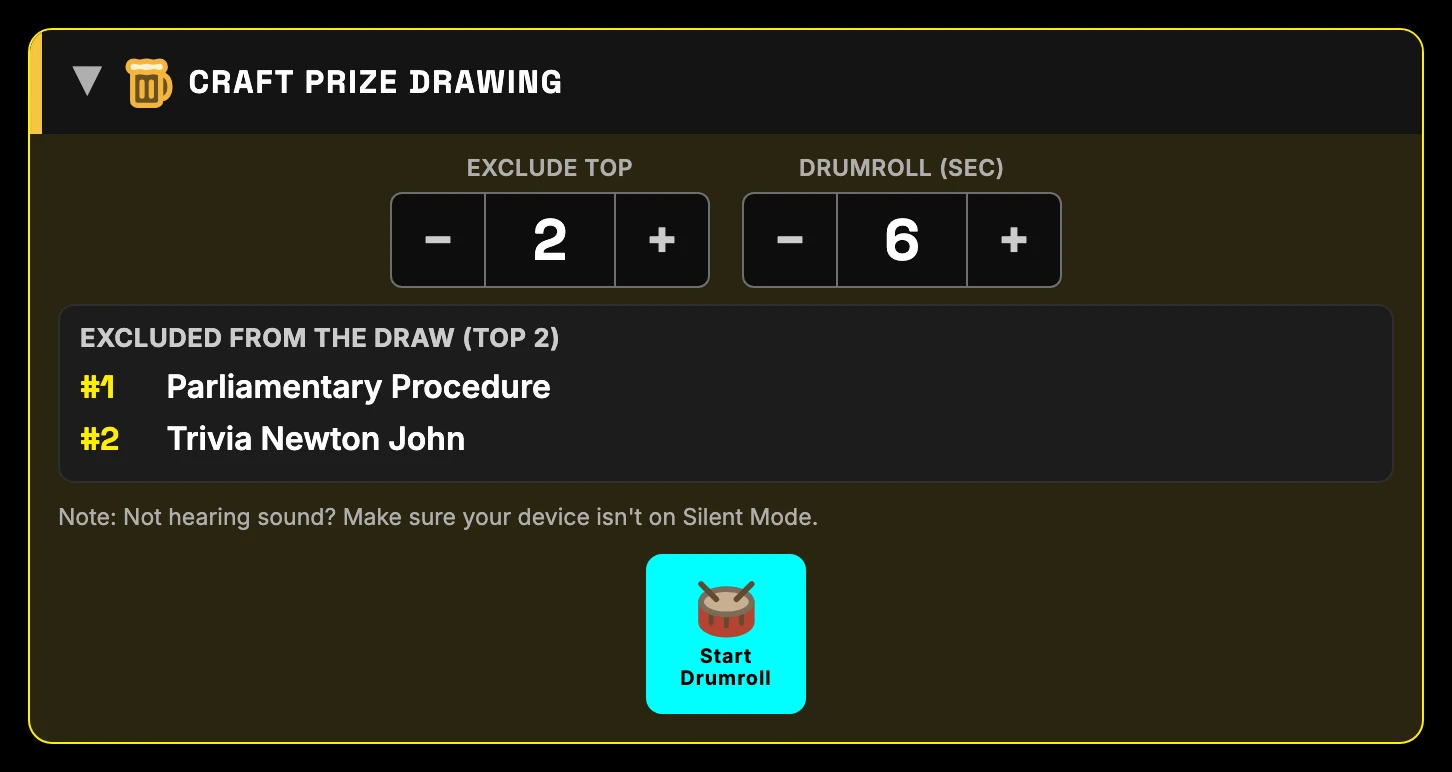
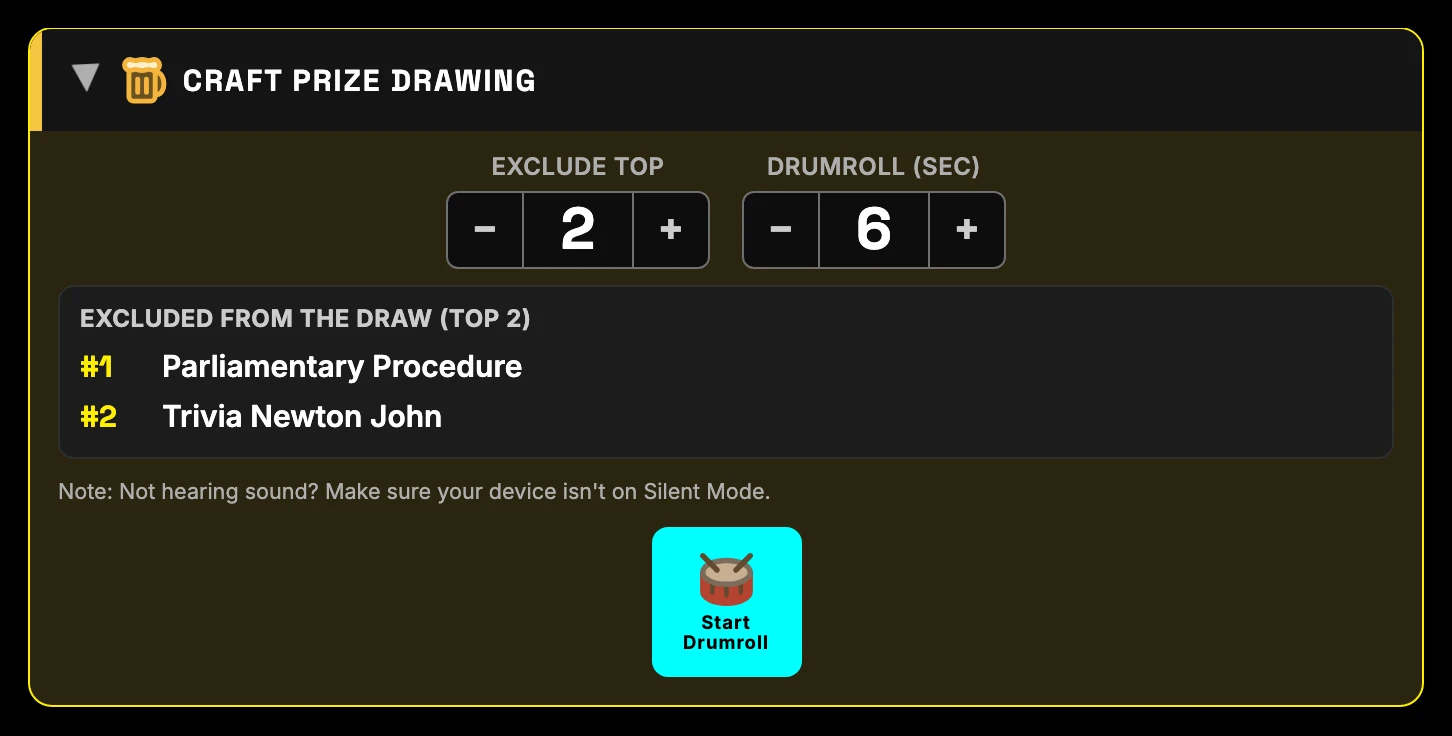
v22.28 Craft Prize steppers back to previous size with bigger digits, square phone export buttons, regenerated Export and Craft Prize FAQ screenshots

diff --git a/index.html b/index.html
@@ -103,7 +103,7 @@
     </div>
     </div>
     <div class="settings-panel-foot">
-    <div class="settings-meta"><span class="settings-version" id="versionLabel"></span><details class="settings-about"><summary>What's new</summary><div class="about-ver"><b>v22.27</b><ul><li>Export: on phones the four buttons sit in a 2x2 grid, XLSX and PDF on top, Photos and JD Form below.</li><li>Craft Prize: even bigger digits in the Exclude Top and Drumroll boxes.</li></ul></div><div class="about-ver"><b>v22.26</b><ul><li>Craft Prize: much bigger digits in the Exclude Top and Drumroll boxes.</li></ul></div><div class="about-ver"><b>v22.24</b><ul><li>PDF export: the craft prize winner is highlighted in gold and labelled in the Standings.</li><li>More space between the XLSX, PDF and JD Form buttons.</li></ul></div><div class="about-ver"><b>v22.23</b><ul><li>Craft Prize: bigger Exclude Top and Drumroll text, and excluded teams now listed with their rank.</li><li>Bigger, easier-to-tap Reload button in Settings.</li></ul></div><div class="about-ver"><b>v22.22</b><ul><li>Questions: on iPad landscape the sort and reset buttons are taller and easier to tap.</li></ul></div><div class="about-ver"><b>v22.21</b><ul><li>Behind the scenes: tidier tests and refreshed docs. No changes to the app itself.</li></ul></div><div class="about-ver"><b>v22.20</b><ul><li>Rivals: the selected place button now shows a checkmark badge for #1-#3 and an X badge for Other.</li></ul></div><div class="about-ver"><b>v22.19</b><ul><li>Rivals: a selected place button now stays solid instead of changing look under your finger.</li></ul></div><div class="about-ver"><b>v22.18</b><ul><li>Rivals: the Q5 wager header now reads "Wager on #1".</li></ul></div><div class="about-ver"><b>v22.17</b><ul><li>Questions: the header keeps its height when collapsed, so it no longer jumps.</li></ul></div><div class="about-ver"><b>v22.16</b><ul><li>Questions: Reset shows as a quiet red outline when there is nothing to reset.</li></ul></div><div class="about-ver"><b>v22.15</b><ul><li>Teams: the alternating row shading now runs the full width of the Teams box.</li></ul></div><details class="about-older"><summary>Earlier versions</summary><div class="about-ver"><b>v22.14</b><ul><li>Rivals: the Q5 wager header now reads "Wager #1" instead of "Wager on the #1 answer".</li></ul></div><div class="about-ver"><b>v22.13</b><ul><li>Rivals: the selected place button is now amber instead of red.</li></ul></div><div class="about-ver"><b>v22.12</b><ul><li>Rivals: removed the redundant place-points label from each round header.</li></ul></div><div class="about-ver"><b>v22.11</b><ul><li>Final Results: the checkered flag is now solid white and tilted, with a white outline in dark mode.</li></ul></div><div class="about-ver"><b>v22.10</b><ul><li>Settings: What's new and Earlier versions now have a twisty arrow.</li></ul></div><div class="about-ver"><b>v22.9</b><ul><li>Rivals: place buttons are now stacked tiles that fit iPhone widths.</li></ul></div><div class="about-ver"><b>v22.8</b><ul><li>JD Form mask: slightly thicker mustache.</li></ul></div><div class="about-ver"><b>v22.7</b><ul><li>Light theme: clearer Pause, Reset and close (X) buttons.</li></ul></div><div class="about-ver"><b>v22.6</b><ul><li>JD Form mask: pale purple plate with deep purple mustache and goatee in Light theme.</li><li>Rivals: place buttons are now one-line chips with a points badge.</li></ul></div><div class="about-ver"><b>v22.5</b><ul><li>What's new: older versions now tuck into an "Earlier versions" twisty.</li></ul></div><div class="about-ver"><b>v22.4</b><ul><li>JD Form mask: darker plate in Light theme so the white mustache and goatee stand out.</li></ul></div><div class="about-ver"><b>v22.3</b><ul><li>JD Form mask: mustache and goatee are now white.</li></ul></div><div class="about-ver"><b>v22.2</b><ul><li>Rivals: header title stays Score Keeper, place buttons are wider for "Other", and the crossed-swords icon is fixed.</li></ul></div><div class="about-ver"><b>v22.1</b><ul><li>Fixed: tapping just above a wager button no longer opens the Team Report.</li></ul></div><div class="about-ver"><b>v22.0</b><ul><li>New Game Mode: Revolution Rivals (score each question by survey place, wager on the #1 answer).</li></ul></div></details></details><span class="settings-disclaimer"><svg class="icon-ui" viewBox="0 0 24 24" aria-hidden="true" focusable="false"><path d="m21.73 18-8-14a2 2 0 0 0-3.48 0l-8 14A2 2 0 0 0 4 21h16a2 2 0 0 0 1.73-3"/><path d="M12 9v4"/><path d="M12 17h.01"/></svg> Built with Anthropic's Claude AI — double-check scores &amp; banter yourself.</span></div>
+    <div class="settings-meta"><span class="settings-version" id="versionLabel"></span><details class="settings-about"><summary>What's new</summary><div class="about-ver"><b>v22.28</b><ul><li>Craft Prize: Exclude Top and Drumroll boxes back to their earlier size, with bigger digits.</li><li>Export: phone buttons stay square in the 2x2 grid.</li></ul></div><div class="about-ver"><b>v22.27</b><ul><li>Export: on phones the four buttons sit in a 2x2 grid, XLSX and PDF on top, Photos and JD Form below.</li><li>Craft Prize: even bigger digits in the Exclude Top and Drumroll boxes.</li></ul></div><div class="about-ver"><b>v22.24</b><ul><li>PDF export: the craft prize winner is highlighted in gold and labelled in the Standings.</li><li>More space between the XLSX, PDF and JD Form buttons.</li></ul></div><div class="about-ver"><b>v22.23</b><ul><li>Craft Prize: bigger Exclude Top and Drumroll text, and excluded teams now listed with their rank.</li><li>Bigger, easier-to-tap Reload button in Settings.</li></ul></div><div class="about-ver"><b>v22.22</b><ul><li>Questions: on iPad landscape the sort and reset buttons are taller and easier to tap.</li></ul></div><div class="about-ver"><b>v22.21</b><ul><li>Behind the scenes: tidier tests and refreshed docs. No changes to the app itself.</li></ul></div><div class="about-ver"><b>v22.20</b><ul><li>Rivals: the selected place button now shows a checkmark badge for #1-#3 and an X badge for Other.</li></ul></div><div class="about-ver"><b>v22.19</b><ul><li>Rivals: a selected place button now stays solid instead of changing look under your finger.</li></ul></div><div class="about-ver"><b>v22.18</b><ul><li>Rivals: the Q5 wager header now reads "Wager on #1".</li></ul></div><div class="about-ver"><b>v22.17</b><ul><li>Questions: the header keeps its height when collapsed, so it no longer jumps.</li></ul></div><div class="about-ver"><b>v22.16</b><ul><li>Questions: Reset shows as a quiet red outline when there is nothing to reset.</li></ul></div><div class="about-ver"><b>v22.15</b><ul><li>Teams: the alternating row shading now runs the full width of the Teams box.</li></ul></div><details class="about-older"><summary>Earlier versions</summary><div class="about-ver"><b>v22.14</b><ul><li>Rivals: the Q5 wager header now reads "Wager #1" instead of "Wager on the #1 answer".</li></ul></div><div class="about-ver"><b>v22.13</b><ul><li>Rivals: the selected place button is now amber instead of red.</li></ul></div><div class="about-ver"><b>v22.12</b><ul><li>Rivals: removed the redundant place-points label from each round header.</li></ul></div><div class="about-ver"><b>v22.11</b><ul><li>Final Results: the checkered flag is now solid white and tilted, with a white outline in dark mode.</li></ul></div><div class="about-ver"><b>v22.10</b><ul><li>Settings: What's new and Earlier versions now have a twisty arrow.</li></ul></div><div class="about-ver"><b>v22.9</b><ul><li>Rivals: place buttons are now stacked tiles that fit iPhone widths.</li></ul></div><div class="about-ver"><b>v22.8</b><ul><li>JD Form mask: slightly thicker mustache.</li></ul></div><div class="about-ver"><b>v22.7</b><ul><li>Light theme: clearer Pause, Reset and close (X) buttons.</li></ul></div><div class="about-ver"><b>v22.6</b><ul><li>JD Form mask: pale purple plate with deep purple mustache and goatee in Light theme.</li><li>Rivals: place buttons are now one-line chips with a points badge.</li></ul></div><div class="about-ver"><b>v22.5</b><ul><li>What's new: older versions now tuck into an "Earlier versions" twisty.</li></ul></div><div class="about-ver"><b>v22.4</b><ul><li>JD Form mask: darker plate in Light theme so the white mustache and goatee stand out.</li></ul></div><div class="about-ver"><b>v22.3</b><ul><li>JD Form mask: mustache and goatee are now white.</li></ul></div><div class="about-ver"><b>v22.2</b><ul><li>Rivals: header title stays Score Keeper, place buttons are wider for "Other", and the crossed-swords icon is fixed.</li></ul></div><div class="about-ver"><b>v22.1</b><ul><li>Fixed: tapping just above a wager button no longer opens the Team Report.</li></ul></div><div class="about-ver"><b>v22.0</b><ul><li>New Game Mode: Revolution Rivals (score each question by survey place, wager on the #1 answer).</li></ul></div></details></details><span class="settings-disclaimer"><svg class="icon-ui" viewBox="0 0 24 24" aria-hidden="true" focusable="false"><path d="m21.73 18-8-14a2 2 0 0 0-3.48 0l-8 14A2 2 0 0 0 4 21h16a2 2 0 0 0 1.73-3"/><path d="M12 9v4"/><path d="M12 17h.01"/></svg> Built with Anthropic's Claude AI — double-check scores &amp; banter yourself.</span></div>
     </div>
   </div>
 </div>

diff --git a/css/styles.css b/css/styles.css
@@ -2275,8 +2275,8 @@ input.at-limit,textarea.at-limit{border-color:var(--accent-orange);box-shadow:0 
 .export-sq.jd-upload-btn .export-sq-label{letter-spacing:.3px}
 /* Phones: 2x2 grid — XLSX/PDF (files) on top, Photos/JD Form (uploads) below, a hairline between the rows. */
 @media(max-width:600px){
-.export-bar{display:grid;grid-template-columns:1fr 1fr;gap:12px 16px}
-.export-bar .export-sq{width:100%;min-width:0}
+.export-bar{display:grid;grid-template-columns:repeat(2,minmax(0,7.5rem));justify-content:center;gap:12px 16px}
+.export-bar .export-sq{width:100%;min-width:0;height:auto;aspect-ratio:1/1;justify-content:center}
 .export-bar::after{content:"";grid-row:2;grid-column:1/-1;height:1px;background:var(--border)}
 }
 .export-prompt{display:none;background:var(--bg-card-alt);border:1px solid var(--accent-gold);border-radius:var(--radius);padding:10px;margin-top:8px}
@@ -2415,10 +2415,10 @@ input.at-limit,textarea.at-limit{border-color:var(--accent-orange);box-shadow:0 
 #sec-craftprize .section-body>:first-child{margin-top:10px}
 .cp-field{display:flex;flex-direction:column;align-items:center;gap:5px}
 .cp-field-label{font-size:.8rem;color:var(--text-muted);font-weight:600;text-transform:uppercase;letter-spacing:.3px;text-align:center}
-.cp-field .stepper input.sw-input{width:4rem;font-size:2.4rem;line-height:1;font-weight:700;font-variant-numeric:tabular-nums}
+.cp-field .stepper input.sw-input{width:3.6rem;font-size:1.95rem;line-height:1;font-weight:700;font-variant-numeric:tabular-nums}
 /* v21.25: the Craft Prize Drumroll (sec) / Exclude Top +/- buttons were small and short; now roomier tap targets. */
-.cp-field .stepper button{width:3rem;height:3rem;font-size:1.5rem}
-.cp-field .stepper input.sw-input{height:3rem;min-height:0;box-sizing:border-box;padding-top:0;padding-bottom:0}
+.cp-field .stepper button{width:2.6rem;height:2.6rem;font-size:1.3rem}
+.cp-field .stepper input.sw-input{height:2.6rem;min-height:0;box-sizing:border-box;padding-top:0;padding-bottom:0}
 .cp-field .stepper button{min-height:0;box-sizing:border-box}
 .cp-status{font-size:.72rem;color:var(--text-muted);margin-bottom:2px}
 .cp-excluded{margin:8px 0;padding:8px 10px;border:1px solid var(--border);border-radius:var(--radius);background:var(--bg-input)}

diff --git a/faq/index.html b/faq/index.html
@@ -1482,7 +1482,7 @@
         <div class="faq-shot">
           <img
             loading="lazy"
-            width="1452" height="772" decoding="async"
+            width="1452" height="736" decoding="async"
             src="screenshots/craft-prize.webp"
             data-shot-base="craft-prize"
             alt="Craft Prize Drawing section open, showing the Exclude Top stepper, Drumroll seconds, and the draw button"
@@ -1575,10 +1575,10 @@
         <div class="faq-shot">
           <img
             loading="lazy"
-            width="1536" height="470" decoding="async"
+            width="1452" height="425" decoding="async"
             src="screenshots/export-bar.webp"
             data-shot-base="export-bar"
-            alt="Export section showing the square Photos, XLSX and PDF buttons and the JD Form link"
+            alt="Export section showing the square XLSX, PDF and Photos buttons and the JD Form link"
             onerror="faqShotFallback(this,'Export &amp; Data section — the square XLSX / PDF buttons and the JD Form link')"
           />
         </div>

diff --git a/js/app.js b/js/app.js
@@ -64,8 +64,8 @@ const FIELD_MAX = {
   teamName: 40,
   craftScript: 600,
 };
-const APP_VERSION = "v22.27"; // #Version Number — bump this manually when you release a new build
-const APP_VERSION_DATE = "Nov 18, 2026 12:19 PM"; // #Version Date — bump alongside APP_VERSION so folks can spot a stale build
+const APP_VERSION = "v22.28"; // #Version Number — bump this manually when you release a new build
+const APP_VERSION_DATE = "Nov 18, 2026 12:25 PM"; // #Version Date — bump alongside APP_VERSION so folks can spot a stale build
 // version.json (repo root) mirrors these two — see checkForUpdate() below for why, and bump it
 // in the same commit as these two or the update-available check starts lying: it'd either miss
 // a real new release (version.json still saying the old version) or nag a host running the

diff --git a/faq/js/faq.js b/faq/js/faq.js
@@ -4,7 +4,7 @@
 // #versionLabel element. Here the same string feeds two spots — the page footer and the
 // Settings panel's settings-meta row — so bumping a release only means editing these two
 // constants instead of hunting down every place the version text is written out by hand.
-const FAQ_VERSION = "v1.55";
+const FAQ_VERSION = "v1.56";
 const FAQ_VERSION_DATE = "18 Nov 2026";
 
 // Same Lucide sun/moon geometry as the main app's THEME_ICON_SUN/MOON (js/app.js), tagged

diff --git a/faq/screenshots/README.md b/faq/screenshots/README.md
@@ -51,7 +51,7 @@ comparison it exists to make.
 | `craft-prize.webp` | The Craft Prize Drawing section open pre-draw, showing the Exclude Top / Drumroll-seconds steppers and the square **Start Drumroll** button (v19.60). | Craft Prize Drawing |
 | `craft-prize-drumroll.webp` | The Craft Prize drumroll actively playing, right after clicking Start Drumroll — the spinning name and countdown bar. | Craft Prize Drawing |
 | `craft-prize-winner.webp` | The finished draw — winning team announced, with the **Clear** button next to the result and the Winner Announcement Script below. | Craft Prize Drawing |
-| `export-bar.webp` | The Export & Data section — the square 📷 Photos / 📄 XLSX / 📕 PDF buttons and the 🎭 JD Form link. | Exporting |
+| `export-bar.webp` | The Export & Data section — the square 📄 XLSX / 📕 PDF / 📷 Photos buttons and the 🎭 JD Form link. | Exporting |
 | `xlsx-export.webp` | The downloaded XLSX scoresheet, opened in a spreadsheet app — header (Location/Date/Quiz #/Host), a few zebra-striped team rows, and only as many team rows as the game has. | Exporting |
 | `pdf-export.webp` | The downloaded PDF scoresheet — same header plus full standings. | Exporting |
 | `jd-upload-form.webp` | The JD Form page, opened in its own browser tab. | Exporting |

diff --git a/CHANGELOG.md b/CHANGELOG.md
@@ -14,6 +14,11 @@ Theme Night is a major change, so its first release (commit subject "v19.78") is
 v20.0 here and in the app, and the follow-ups after it are v20.1 through v20.6 (commit subjects
 v19.79 through v19.84; git history isn't rewritten).
 
+## v22.28 - 2026-11-18
+- **Craft Prize:** Exclude Top and Drumroll (sec) boxes and +/- buttons go back to their pre-v22.26 size (2.6rem tall); digits are now 1.95rem in a 3.6rem-wide box.
+- **Export:** on phones the XLSX / PDF / Photos / JD Form buttons stay square in the 2x2 grid.
+- **FAQ (v1.56):** regenerated the Export bar and Craft Prize screenshots (dark and light).
+
 ## v22.27 - 2026-11-18
 - **Export:** on phones the buttons are now a 2x2 grid with a divider: XLSX and PDF on top, Photos and JD Form below.
 - **Craft Prize:** the Exclude Top and Drumroll (sec) digits are bigger again (2.4rem) within the same boxes.

diff --git a/faq/CHANGELOG.md b/faq/CHANGELOG.md
@@ -2,6 +2,11 @@
 
 All notable changes to the Scorekeeper FAQ site are documented here.
 
+## [1.56] - 18 Nov 2026
+
+### Changed
+- **Screenshots regenerated (dark + light):** Export bar (new XLSX, PDF, Photos, JD Form order) and Craft Prize Drawing (bigger digits in the Exclude Top / Drumroll boxes).
+
 ## [1.55] - 18 Nov 2026
 
 ### Changed
